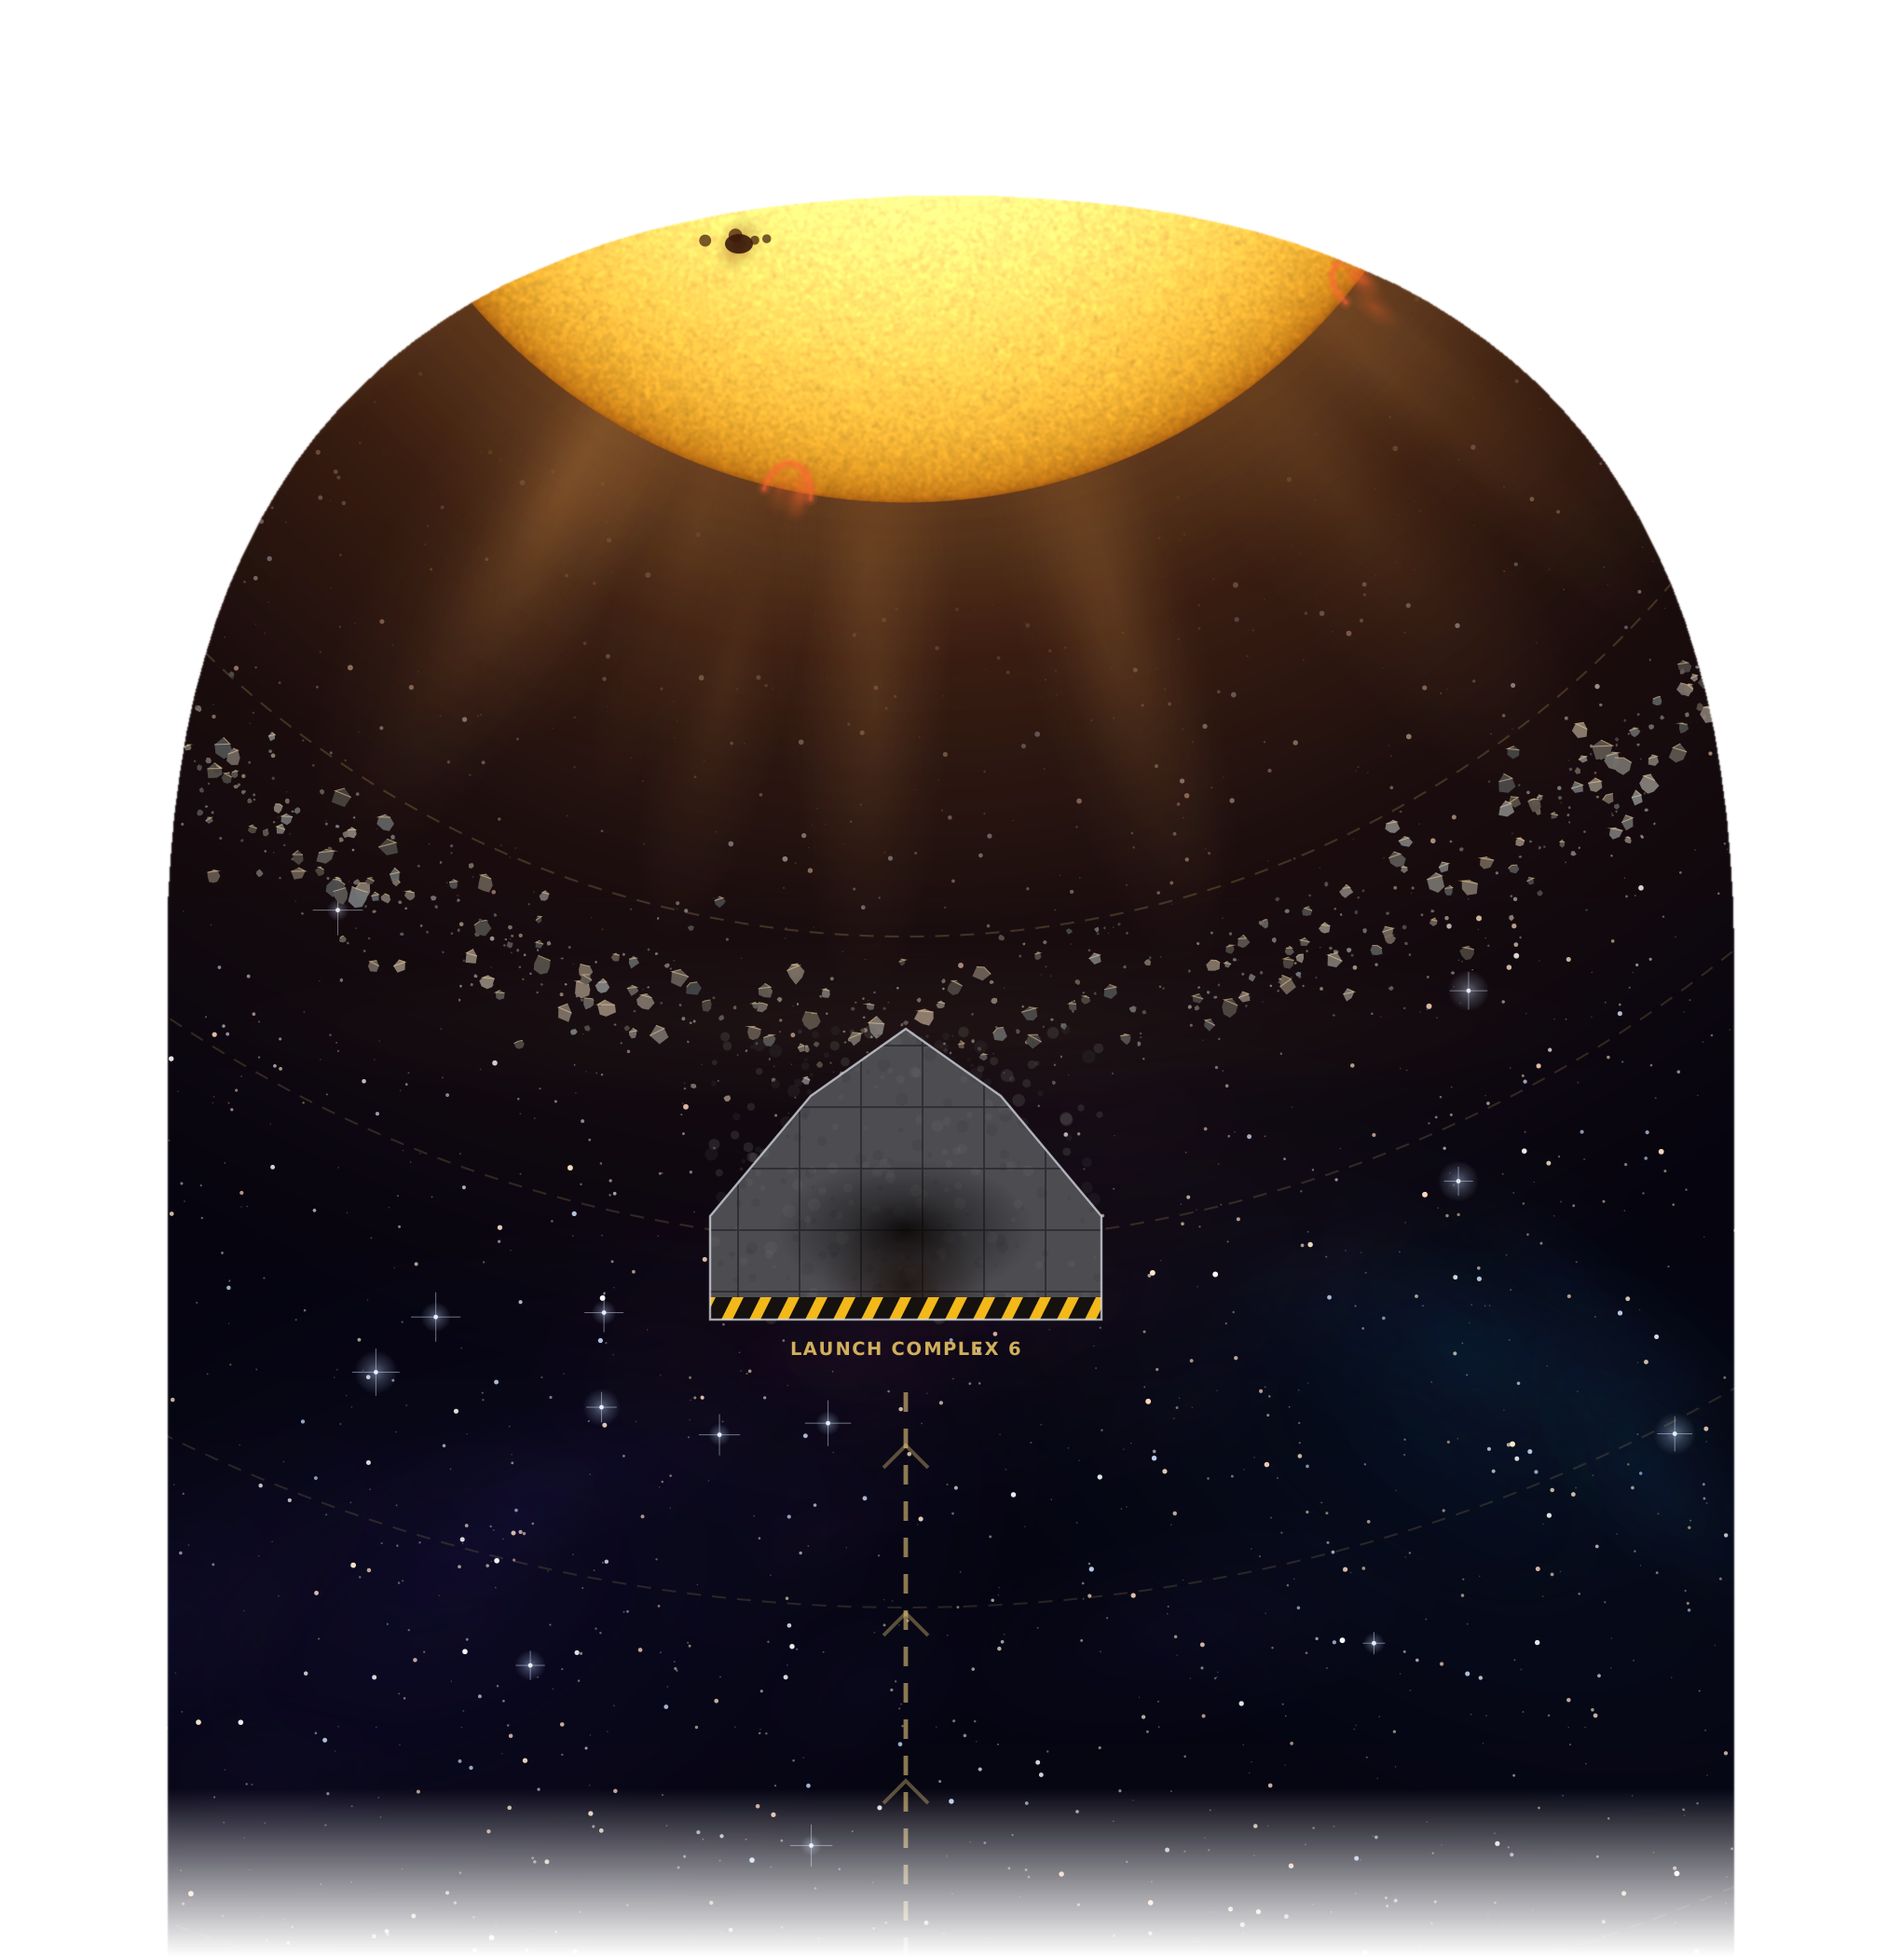
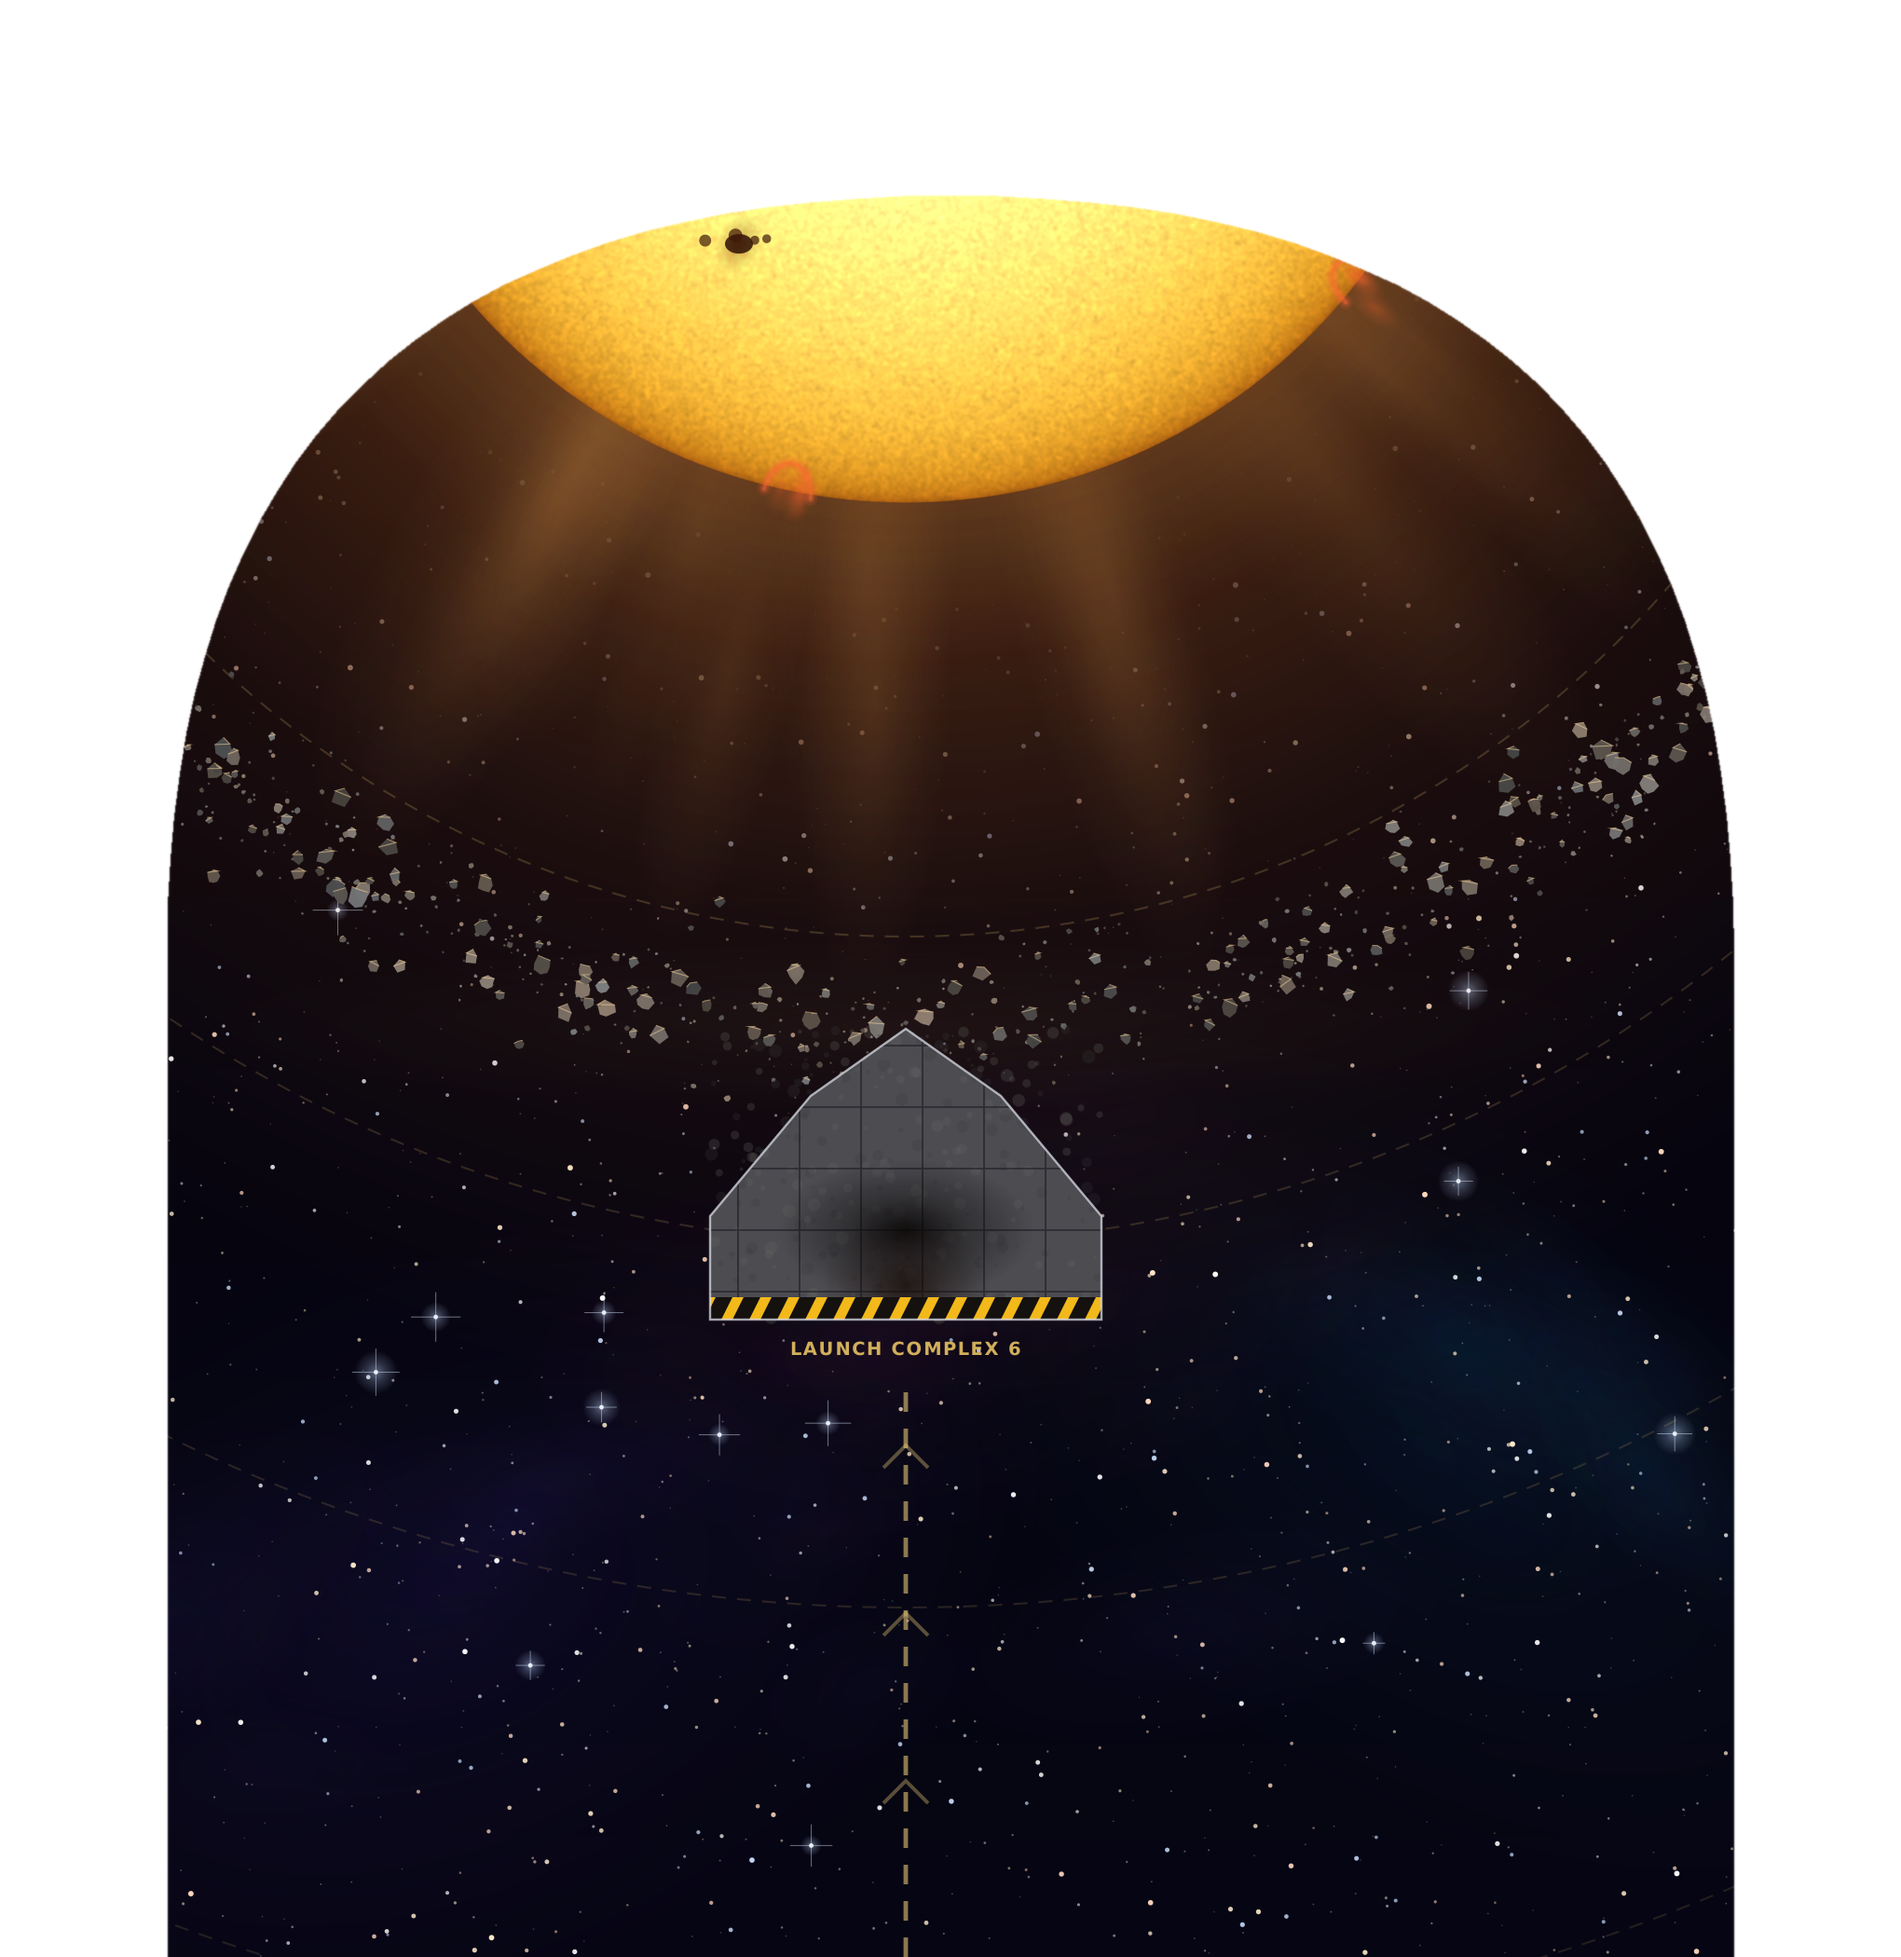
T6 M6 v3: the lower table's Blender bake in the game
- tour_lower.png (LOWER_RECT, 3 px/pt) from tools/tour_bake_lower.py ... game (no stand-in standups/drops)
  + tools/tour_bake_art.py (top 30 pt fade onto the upper painting); z -19.4 over the grey walls (-19.5)
- the plain lower floor painting isn't drawn under it; the upper painting is opaque at its bottom now
- slings artBaked when the lower art is in (kick flash only). Aaron: "Let's do the next half."

Claude-Session: https://claude.ai/code/session_01ELESyt8ECswEUsopFjGyjQ

Changed region(s): [[0.0618, 0.8976, 0.9265, 1.0]]

diff --git a/GreyInvasionPinball/Tour/TourTableScene.swift b/GreyInvasionPinball/Tour/TourTableScene.swift
@@ -237,7 +237,7 @@ final class TourTableScene: SKScene, RendererHostedScene {
         addWall(points: TourTableLayout.rightLaneGuide)
 
         for s in [TourTableLayout.leftSling, TourTableLayout.rightSling] {
-            let sling = TourSlingshot(top: s.top, corner: s.corner, tip: s.tip, artBaked: false,
+            let sling = TourSlingshot(top: s.top, corner: s.corner, tip: s.tip, artBaked: hasLowerArt,
                                       kickFrom: TourTableLayout.slingKickFrom, kickTo: TourTableLayout.slingKickTo)
             addChild(sling)
             slingshots.append(sling)
@@ -552,8 +552,16 @@ final class TourTableScene: SKScene, RendererHostedScene {
     /// 640…1340, the upper fading into the lower over their overlap), trimmed to the outer wall, over the grey floor and
     /// under everything else (the planet window, lamps and parts draw above). The hardware stays grey box until its bake.
     private func addFloorArt() {
-        for (name, rect, z) in [("tour_floor_lower", CGRect(x: -40, y: -75, width: 680, height: 775), CGFloat(-19.6)),
+        // M6 v3: the lower table's Blender bake (tools/tour_bake_lower.py … game → tour_bake_art.py) — floor painting under
+        // its clear coat, the cabinet, chrome walls, rails and posts, sling plastics, the R-O-C hull, the Mars bunker,
+        // aprons — at z −19.4, over the grey wall lines (−19.5) it replaces; its top 30 pt fade onto the upper painting.
+        // With it, the plain lower floor painting isn't drawn (it would only be overdraw underneath).
+        hasLowerArt = UIImage(named: "tour_lower") != nil
+        let lowerRect = CGRect(x: -40, y: -75, width: 680, height: 775)
+        for (name, rect, z) in [("tour_lower", lowerRect, CGFloat(-19.4)),
+                                ("tour_floor_lower", lowerRect, CGFloat(-19.6)),
                                 ("tour_floor_upper", CGRect(x: -40, y: 640, width: 680, height: 700), CGFloat(-19.55))] {
+            if name == "tour_floor_lower" && hasLowerArt { continue }
             guard UIImage(named: name) != nil else { continue }
             // M6 v2 (Aaron: iPhone low 104 with v1): the texture goes to the GPU now, not on first sight mid-play.
             let texture = SKTexture(imageNamed: name)
@@ -569,6 +577,8 @@ final class TourTableScene: SKScene, RendererHostedScene {
         if hasFloorArt { greyFloor?.removeFromParent(); greyFloor = nil }
     }
     private var hasFloorArt = false
+    /// M6 v3: the lower hardware is baked into the art (the slings then draw only their kick flash).
+    private var hasLowerArt = false
     private var greyFloor: SKShapeNode?
 
     /// M5 v5: the planet window (TourPlanetWindow): stars and a planet deep under the glass, each its own parallax layer.
@@ -1200,7 +1210,7 @@ final class TourTableScene: SKScene, RendererHostedScene {
 
     private func addBuildTag() {
         #if DEBUG
-        let label = SKLabelNode(text: "T6 M6 v2")
+        let label = SKLabelNode(text: "T6 M6 v3")
         label.fontName = "Menlo-Bold"
         label.fontSize = 12
         label.fontColor = SKColor(white: 1, alpha: 0.85)
@@ -1246,7 +1256,7 @@ final class TourTableScene: SKScene, RendererHostedScene {
             speed = Int(hypot(v.dx, v.dy) / 10) * 10
         }
         let fps = fpsShown > 0 ? "\(fpsShown) fps · low \(fpsLow) · worst \(fpsWorstShown) ms\n" : ""
-        var text = "\(fps)T6 M6 v2 \(effectiveCameraMode.tag) · \(speed)"
+        var text = "\(fps)T6 M6 v3 \(effectiveCameraMode.tag) · \(speed)"
         #if DEBUG
         if let lab = playLab { text += "\n" + lab.progressText }
         #endif

diff --git a/tools/tour_bake_lower.py b/tools/tour_bake_lower.py
@@ -16,6 +16,8 @@ argv = sys.argv[sys.argv.index('--') + 1:]
 FLOOR, OUT = (os.path.abspath(a) for a in argv[:2])
 SCALE = float(argv[2]) if len(argv) > 2 else 1.0
 SAMPLES = int(argv[3]) if len(argv) > 3 else 64
+# M6 v3: `game` as the 5th argument bakes the game art: no stand-in standups / drops (the game draws and drops them).
+PREVIEW_PARTS = not (len(argv) > 4 and argv[4] == 'game')
 X0, Y0, RW, RH = L.LOWER_RECT
 K = L.OBLIQUE
 
@@ -271,16 +273,18 @@ for k in range(9):                          # rivets along the '/'
     t = (k + 0.5) / 9; x = 20 + (86.3 - 20) * t; y = 530 + (672.3 - 530) * t
     nx, ny = -0.906, 0.423
     cylinder(f'rivet{k}', x + nx * 5, y + ny * 5, 0.9, 15.8, 16.6, M_CHROME_SOFT, verts=12)
-for i, c in enumerate(L.ROCKET_CENTERS):    # the R-O-C standups (stand-ins: blue plates, white faces)
-    prism(f'roc{i}', ccw(L.plate(c, L.ROCKET_NORMAL, L.STANDUP)), 0, 14, M_STANDUP)
+if PREVIEW_PARTS:                            # the R-O-C standups (stand-ins for the look preview; the game draws its own)
+    for i, c in enumerate(L.ROCKET_CENTERS):
+        prism(f'roc{i}', ccw(L.plate(c, L.ROCKET_NORMAL, L.STANDUP)), 0, 14, M_STANDUP)
 
 # the Mars bunker: rust-red rock walls (the roof and the floor V) with chrome caps, the sample drops, the rover hole
 for name, pts in (('bunkerRoof', L.BUNKER_ROOF), ('bunkerFloor', L.BUNKER_FLOOR)):
     wall_strip(name, pts, 6, 14, M_MARS)
     tube(name + 'Cap', pts, 14.5, 1.5, M_CHROME_SOFT)
 prism('roofBack', ccw([(489.9, 585.7), (516, 606), (548, 623.3), (548, 640), (500, 640)]), 0, 14, M_MARS)
-for i, c in enumerate(L.SAMPLE_CENTERS):
-    prism(f'sample{i}', ccw(L.plate(c, L.SAMPLE_NORMAL, L.DROP)), 0, 12, M_DROP)
+if PREVIEW_PARTS:                            # the sample drops (stand-ins; in the game they drop, so never baked)
+    for i, c in enumerate(L.SAMPLE_CENTERS):
+        prism(f'sample{i}', ccw(L.plate(c, L.SAMPLE_NORMAL, L.DROP)), 0, 12, M_DROP)
 cylinder('roverRim', *L.ROVER_SCOOP, L.SCOOP_R + 2.5, -0.5, 0.8, M_CHROME_SOFT)
 cylinder('roverHole', *L.ROVER_SCOOP, L.SCOOP_R, -0.4, 0.9, M_BLACK)
 

diff --git a/tools/tour_bake_art.py b/tools/tour_bake_art.py
@@ -1,0 +1,15 @@
+"""T6 M6 v3: turns the lower Blender bake (tour_bake_lower.py ... game) into the game's lower art, tour_lower.png: the
+whole lower table — floor painting under its clear coat, cabinet, walls, rails, posts, sling plastics, the R-O-C hull, the
+Mars bunker, aprons — over LOWER_RECT (−40, −75, 680, 775) at 3 px/pt, with its top 30 pt (y 670–700) fading out onto the
+upper floor painting so the two meet without a seam. Usage: python3 tour_bake_art.py bake.png out.png"""
+import sys
+import numpy as np
+from PIL import Image
+src, out = sys.argv[1:3]
+im = np.asarray(Image.open(src).convert('RGB'))
+H = im.shape[0]; S = 3.0; Y_TOP = 700.0
+wy = Y_TOP - (np.arange(H) + 0.5) / S
+a = np.clip((Y_TOP - wy) / 30.0, 0, 1)
+alpha = np.repeat((a * 255).round().astype(np.uint8)[:, None], im.shape[1], 1)
+Image.fromarray(np.dstack([im, alpha]), 'RGBA').save(out, optimize=True)
+print('wrote', out, im.shape)

diff --git a/tools/tour_floor_art.py b/tools/tour_floor_art.py
@@ -46,5 +46,7 @@ os.makedirs(OUT, exist_ok=True)
 subprocess.run([sys.executable, os.path.join(HERE, 'tour_floor_lower.py'), '/tmp/tfl.png', '1'], check=True)
 subprocess.run([sys.executable, os.path.join(HERE, 'tour_floor_upper.py'), '/tmp/tfu.png', '1'], check=True)
 trimmed('/tmp/tfl.png', (-40, -75, 680, 775)).save(os.path.join(OUT, 'tour_floor_lower.png'), optimize=True)
-trimmed('/tmp/tfu.png', (-40, 640, 680, 700), feather_bottom=60).save(os.path.join(OUT, 'tour_floor_upper.png'), optimize=True)
+# M6 v3: the lower hardware bake (tour_lower.png) now fades out over y 670-700 onto the upper painting, so the upper one
+# stays opaque at its bottom (a feathered edge under a fading edge left a dark seam).
+trimmed('/tmp/tfu.png', (-40, 640, 680, 700), feather_bottom=0).save(os.path.join(OUT, 'tour_floor_upper.png'), optimize=True)
 print('ok')
